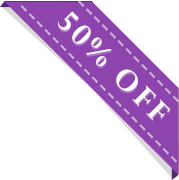
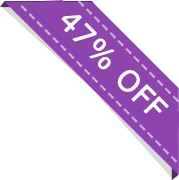
edit discount

diff --git a/index.html b/index.html
@@ -47,7 +47,7 @@
 			<div class="twelve columns">
 				<h1>The Graph</h1>
 				<p class="description">
-				</p><p class="preheadline">has Helped <span class="white">5025+</span> Internet Marketer like <span class="white">You</span> to..</p>
+				</p><p class="preheadline">has Helped <span class="white">7000+</span> Internet Marketer like <span class="white">You</span> to..</p>
 				<br>
 				<span class="lbig">
 					<strong>promote to targeted market, explode your Sales &amp; get crazy revenue<br><span class="yellow">...with less cost!</span>
@@ -108,7 +108,7 @@
 				<span><small>order use socialsuite.co</small></span>
 			</div>
 
-			<p class="text-center">Discount 50% <strong>END</strong> at</p>
+			<p class="text-center">Discount 47% <strong>END</strong> at</p>
 
 			<div class="countdown text-center">
 				<span class="dateEnd dateExpire is-countdown"><ul class="day-expire"><li>{{days}}<span>Days</span></li><li>{{hours}}<span>Hours</span></li><li>{{minutes}}<span>Minutes</span></li><li>{{seconds}}<span>Seconds</span></li></ul></span>	
@@ -1073,7 +1073,7 @@
 			</div>
 
 			<div class="countdown text-center mt50">
-				<p class="text-center mb20">Diskon 50% <strong>END</strong> at</p>
+				<p class="text-center mb20">Diskon 47% <strong>END</strong> at</p>
 				<span class="dateEnd dateExpire is-countdown"><ul class="day-expire"><li>{{days}}<span>Days</span></li><li>{{hours}}<span>Hours</span></li><li>{{minutes}}<span>Minutes</span></li><li>{{seconds}}<span>Seconds</span></li></ul></span>
 			</div>
 		</div>
@@ -1164,11 +1164,11 @@
           <div class="modal-body">
         	<form v-on:submit="formSubmit" v-show="form">
         		<input style="width: 30%" v-model="email" type="text" placeholder="enter your email address">
-        		<button class="button button-primary button-blue">get 50% disc Now!</button>
+        		<button class="button button-primary button-blue">get 47% disc Now!</button>
         	</form>
         	<div v-show="!form" style="display:none">
 				<p style="margin: 0 auto">copy this coupon</p>
-        		<h2 style="color: red">MANTAP</h2>
+        		<h2 style="color: red">TG30</h2>
         		<a  href="https://socialsuite.co/aff/go/alanshalih/?i=9" class="button button-primary button-blue">BUY THE GRAPH</a>
         	</div>
         	
